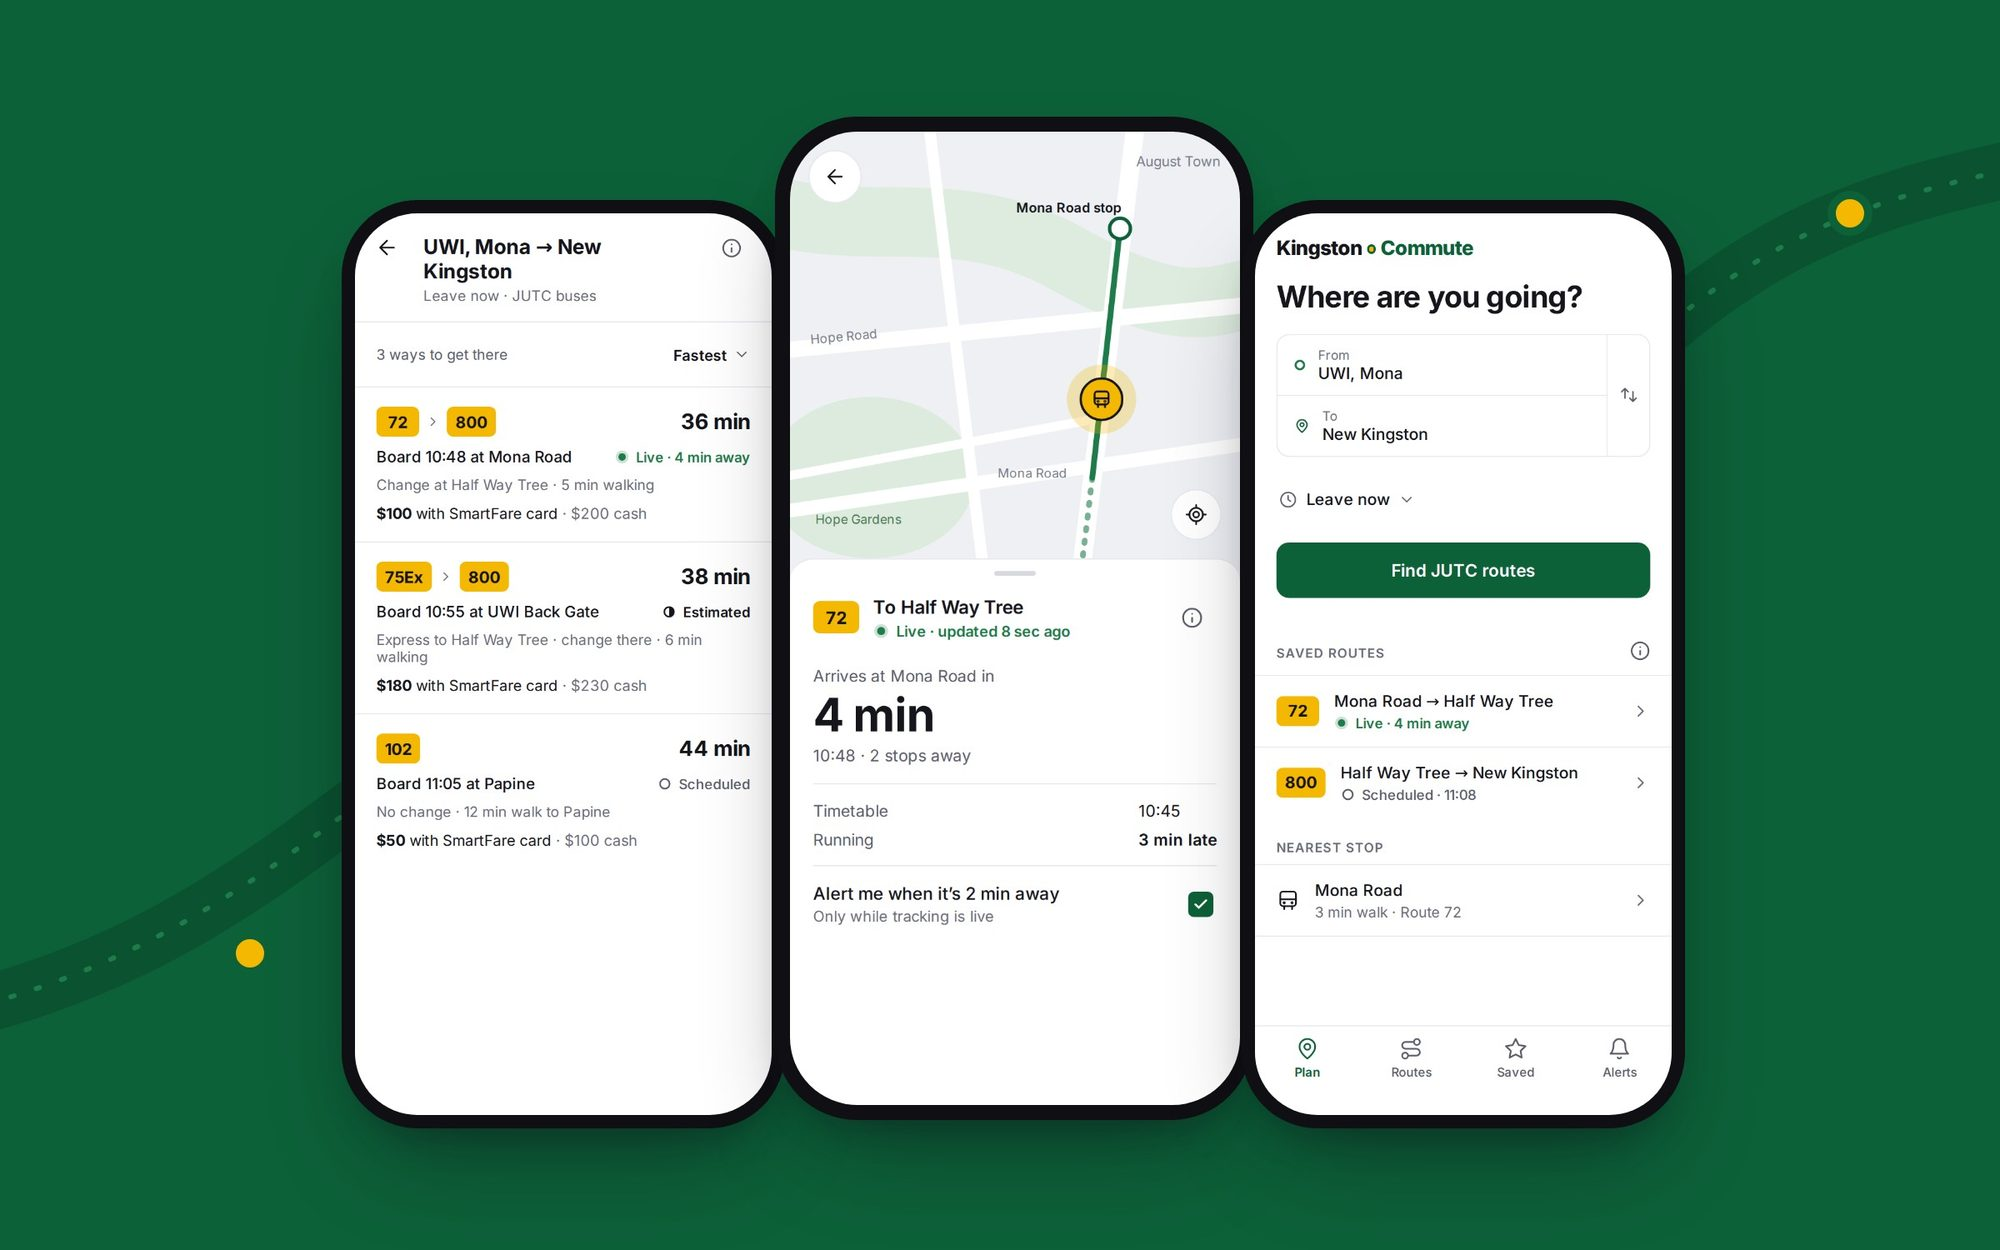
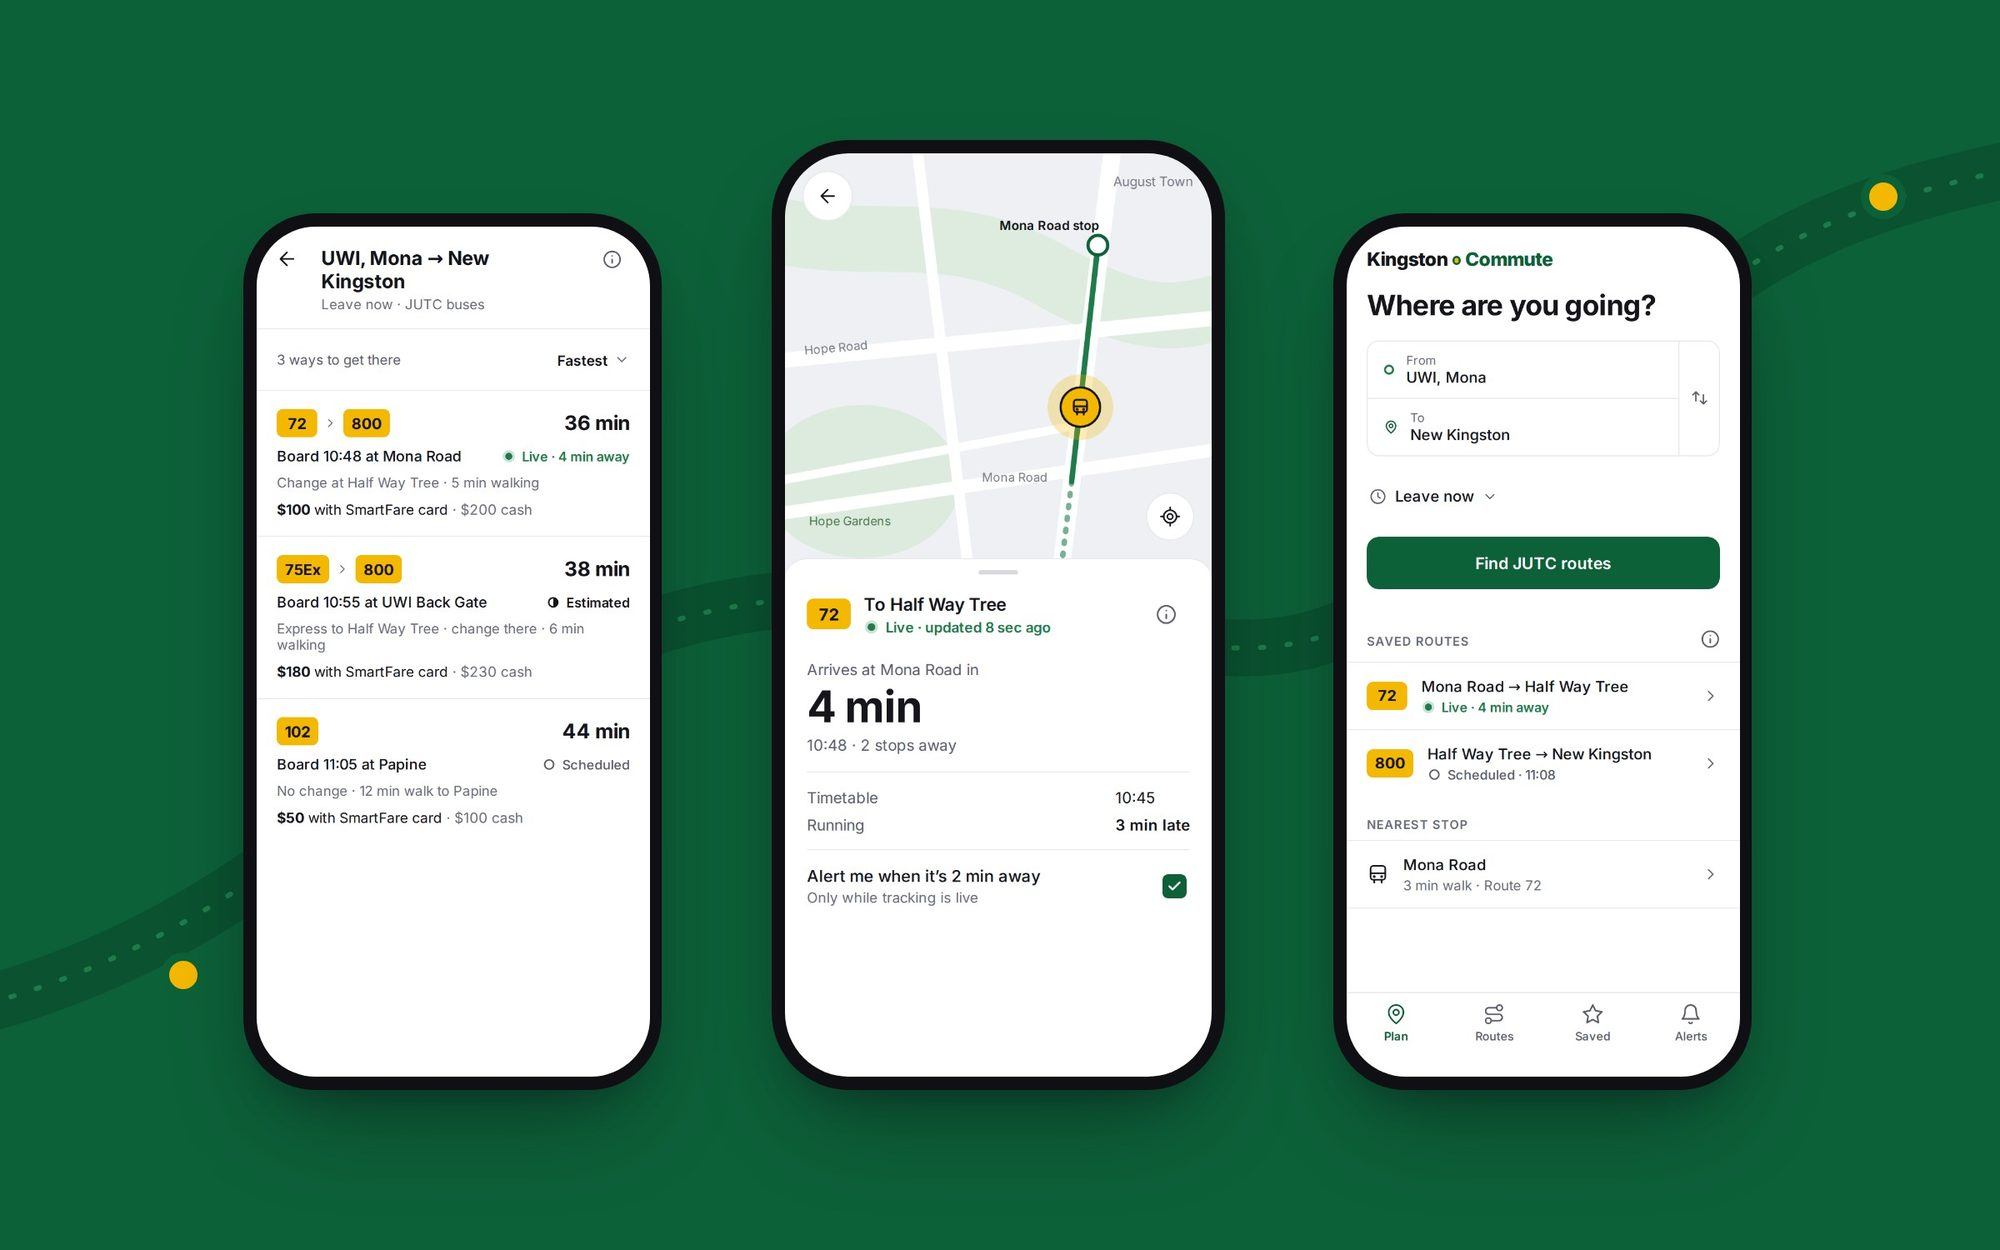
Home page and cover updates
Remove the ice breaker and the 'wearing black' line. Attribute the two
client reviews to LoopQA and Spark RE Analytics. Replace the About skills
with the resume's three groups, and swap Python out of the skills ticker.
Re-compose the Kingston Commute cover with space between the three phones.

Claude-Session: https://claude.ai/code/session_01Px8JgRrMWxsnhbvC3BPHaw

Changed region(s): [[0.093, 0.0936, 0.899, 0.936], [0.899, 0.1248, 0.961, 0.1872]]

diff --git a/index.html b/index.html
@@ -46,12 +46,11 @@
     <div class="meta reveal-up">
       <span class="mono">Currently</span>
       <span style="color: var(--ink)">Completing the Google UX Design Certificate</span>
-      <span class="fav">Probably wearing black, but I like purple</span>
       <span class="mono scroll-cue"><i></i>Scroll</span>
     </div>
   </div>
 </section>
-<div class="marquee" aria-hidden="true"><div class="track"><span><b>User research</b></span><em>+</em><span>Wireframing</span><em>+</em><span><b>Prototyping</b></span><em>+</em><span>Figma</span><em>+</em><span><b>Usability evaluation</b></span><em>+</em><span>User flows</span><em>+</em><span><b>HTML · CSS · JS</b></span><em>+</em><span>Python</span><em>+</em><span><b>User research</b></span><em>+</em><span>Wireframing</span><em>+</em><span><b>Prototyping</b></span><em>+</em><span>Figma</span><em>+</em><span><b>Usability evaluation</b></span><em>+</em><span>User flows</span><em>+</em><span><b>HTML · CSS · JS</b></span><em>+</em><span>Python</span><em>+</em></div></div>
+<div class="marquee" aria-hidden="true"><div class="track"><span><b>User research</b></span><em>+</em><span>Wireframing</span><em>+</em><span><b>Prototyping</b></span><em>+</em><span>Figma</span><em>+</em><span><b>Usability evaluation</b></span><em>+</em><span>User flows</span><em>+</em><span><b>HTML · CSS · JS</b></span><em>+</em><span>Responsive design</span><em>+</em><span><b>User research</b></span><em>+</em><span>Wireframing</span><em>+</em><span><b>Prototyping</b></span><em>+</em><span>Figma</span><em>+</em><span><b>Usability evaluation</b></span><em>+</em><span>User flows</span><em>+</em><span><b>HTML · CSS · JS</b></span><em>+</em><span>Responsive design</span><em>+</em></div></div>
 <section id="work" class="work wrap">
   <div class="section-head"><h2 class="mono">Selected work</h2><span class="mono">Case studies</span></div>
   <ul class="projects">
@@ -71,83 +70,6 @@
 <section class="statement wrap" aria-label="Approach">
   <p class="big">Four years inside other people’s workflows showed me where tools break: tasks that never clear, hand-offs that land with the wrong person, answers nobody can find. <span class="hl">Now I design the fix.</span></p>
 </section>
-<section class="ice wrap" id="spot" aria-labelledby="spot-title">
-  <div class="ice-copy">
-    <div class="ice-intro">
-    <p class="mono reveal-up">An ice breaker</p>
-    <h2 id="spot-title" data-lines-scroll>Spot what’s broken</h2>
-    <p class="reveal-up">This board has the three problems I used to run into every week. Click anything that looks wrong.</p>
-    </div>
-    <div class="ice-progress">
-    <ol class="ice-slots reveal-up">
-      <li data-slot="1"><span class="mono">01</span><div><b>Something that won’t go away</b><p>Done, but never cleared. Finishing a task should take it off the list.</p></div></li>
-      <li data-slot="2"><span class="mono">02</span><div><b>Someone who shouldn’t have it</b><p>Handed to the wrong person. Nobody should approve their own leave.</p></div></li>
-      <li data-slot="3"><span class="mono">03</span><div><b>A message that leads nowhere</b><p>A notification with nowhere to go. It should name the task and open it.</p></div></li>
-    </ol>
-    <p class="ice-status reveal-up" aria-live="polite">0 of 3 found</p>
-    <div class="ice-actions reveal-up">
-      <button type="button" class="ice-text" data-ice="show">Show me</button>
-      <a class="ice-hi" href="mailto:bingham.kristina1@gmail.com?subject=I%20found%20all%20three" data-cursor="Email" hidden>Say hi <span aria-hidden="true">→</span></a>
-      <button type="button" class="ice-text" data-ice="reset" hidden>Start over</button>
-    </div>
-    </div>
-  </div>
-
-  <div class="ice-stage reveal-up">
-    <div class="board" data-state="broken">
-      <div class="board-head">
-        <div><b>Team tasks</b><span>Wednesday</span></div>
-        <span class="board-bell"><svg viewBox="0 0 24 24" aria-hidden="true"><path d="M6 16V11a6 6 0 0 1 12 0v5l1.5 2h-15z"/><path d="M10 20.5a2 2 0 0 0 4 0"/></svg><span class="board-count">1</span></span>
-      </div>
-
-      <button type="button" class="board-row board-note" data-bug="3">
-        <span class="mark" aria-hidden="true">3</span>
-        <span class="who">AG</span>
-        <span class="txt"><span class="broken-only">Andre mentioned you in a task</span><span class="fixed-only">Andre mentioned you in <b>“Intro call – K. Morgan”</b></span></span>
-        <span class="go"><span class="broken-only">View</span><span class="fixed-only">Open task</span></span>
-      </button>
-
-      <div class="board-list">
-        <p class="board-label">To do <span class="n" data-todo>4</span></p>
-        <button type="button" class="board-row task" data-bug="1">
-          <span class="mark" aria-hidden="true">1</span>
-          <span class="box on" aria-hidden="true"><svg viewBox="0 0 16 16"><path d="M3.5 8.5l3 3 6-7"/></svg></span>
-          <span class="txt"><span class="t done">Send proposal – Island Supplies</span><span class="m"><span class="pri high">High</span>You</span></span>
-          <span class="tag late">Overdue 3 days</span>
-        </button>
-        <button type="button" class="board-row task">
-          <span class="box high" aria-hidden="true"></span>
-          <span class="txt"><span class="t">Call back – Caribbean Tech Ltd</span><span class="m"><span class="pri high">High</span>You</span></span>
-          <span class="tag">Today</span>
-        </button>
-        <button type="button" class="board-row task" data-bug="2">
-          <span class="mark" aria-hidden="true">2</span>
-          <span class="box medium" aria-hidden="true"></span>
-          <span class="txt"><span class="t">Approve Jason’s leave request</span><span class="m"><span class="pri medium">Medium</span><span class="broken-only">Jason</span><span class="fixed-only">You <s>Jason</s></span></span></span>
-          <span class="tag">Today</span>
-        </button>
-        <button type="button" class="board-row task" data-target="intro">
-          <span class="box low" aria-hidden="true"></span>
-          <span class="txt"><span class="t">Intro call – K. Morgan</span><span class="m"><span class="pri low">Low</span>Andre</span></span>
-          <span class="tag">Tomorrow</span>
-        </button>
-      </div>
-
-      <div class="board-list">
-        <p class="board-label">Done <span class="n" data-done>1</span></p>
-        <div class="board-done" data-done-list>
-          <button type="button" class="board-row task is-done">
-            <span class="box on" aria-hidden="true"><svg viewBox="0 0 16 16"><path d="M3.5 8.5l3 3 6-7"/></svg></span>
-            <span class="txt"><span class="t done">Review quote – Palm Retail</span><span class="m"><span class="pri low">Low</span>Nicole</span></span>
-            <span class="tag">08:45</span>
-          </button>
-        </div>
-      </div>
-      <p class="board-miss" aria-hidden="true">Not that one</p>
-    </div>
-    <p class="ice-foot"><span class="hanko-mini" aria-hidden="true">済</span><span><b>済</b> (sumi) is the stamp Japanese offices use to mark something done. I studied Japanese at UWI.</span></p>
-  </div>
-</section>
 <section id="about" class="about wrap">
   <div class="bio">
     <p class="mono reveal-up">About</p>
@@ -155,10 +77,10 @@
     <p class="reveal-up">I studied Computer Science, with a minor in Japanese, at The University of the West Indies. For four years I worked in analyst, operations and executive support roles for remote teams. At one company I tested an internal CRM every day while it was being built: I found what broke, recorded it, explained it to the CEO and checked every fix.</p>
     <p class="reveal-up">I bring that view, plus a developer’s understanding of how software is built, to every design.</p>
     <dl class="skills reveal-up">
-      <div><dt>Design</dt><dd>User research, user flows, wireframing, prototyping, high-fidelity UI, usability evaluation</dd></div>
-      <div><dt>Tools</dt><dd>Figma (components, Auto Layout, prototyping), FigJam, Framer, Webflow, Adobe CC, Canva</dd></div>
-      <div><dt>Code</dt><dd>React, TypeScript, JavaScript, Python, Java, SQL, Git</dd></div>
-      <div><dt>Learning</dt><dd>Google UX Design Professional Certificate</dd></div>
+      <div><dt>UX/UI</dt><dd>User research, usability evaluation, competitive analysis, user flows, wireframing, interactive prototyping, interaction design, UI design, responsive design, accessible design (WCAG AA), A/B testing</dd></div>
+      <div><dt>Analysis &amp; operations</dt><dd>Data analysis, data visualization, process improvement, quality control</dd></div>
+      <div><dt>Tools &amp; technologies</dt><dd>Figma, FigJam, Adobe CC, Canva, HTML/CSS, JavaScript, Microsoft 365, Google Workspace</dd></div>
+      <div><dt>Learning</dt><dd>Google UX Design Professional Certificate (in progress)</dd></div>
     </dl>
     <p class="mono reveal-up" style="margin-top: 36px">A few fun facts</p>
     <dl class="facts-fun reveal-up" style="margin-top: 0">
@@ -171,11 +93,11 @@
     <p class="mono reveal-up">What clients say</p>
     <blockquote class="reveal-up">
       <p>“She seamlessly integrated into our team, collaborating effortlessly across multiple departments… She anticipates the need for new processes and proactively creates them, making our workflows smoother and more efficient.”</p>
-      <footer class="mono">Client review, Upwork · Sales, marketing and operations</footer>
+      <footer class="mono">Client review · LoopQA</footer>
     </blockquote>
     <blockquote class="reveal-up">
       <p>“Kristena is really amazing and everything she did is with top quality. I would recommend her to any firm.”</p>
-      <footer class="mono">Client review, Upwork · Admin to analyst role</footer>
+      <footer class="mono">Client review · Spark RE Analytics</footer>
     </blockquote>
   </div>
 </section>
@@ -199,6 +121,5 @@
 <script src="/assets/js/vendor/SplitText.min.js" defer></script>
 <script src="/assets/js/vendor/lenis.min.js" defer></script>
 <script src="/assets/js/site.js?v=3f7ff32a" defer></script>
-<script src="/assets/js/icebreaker.js?v=5180f324" defer></script>
 </body>
 </html>
